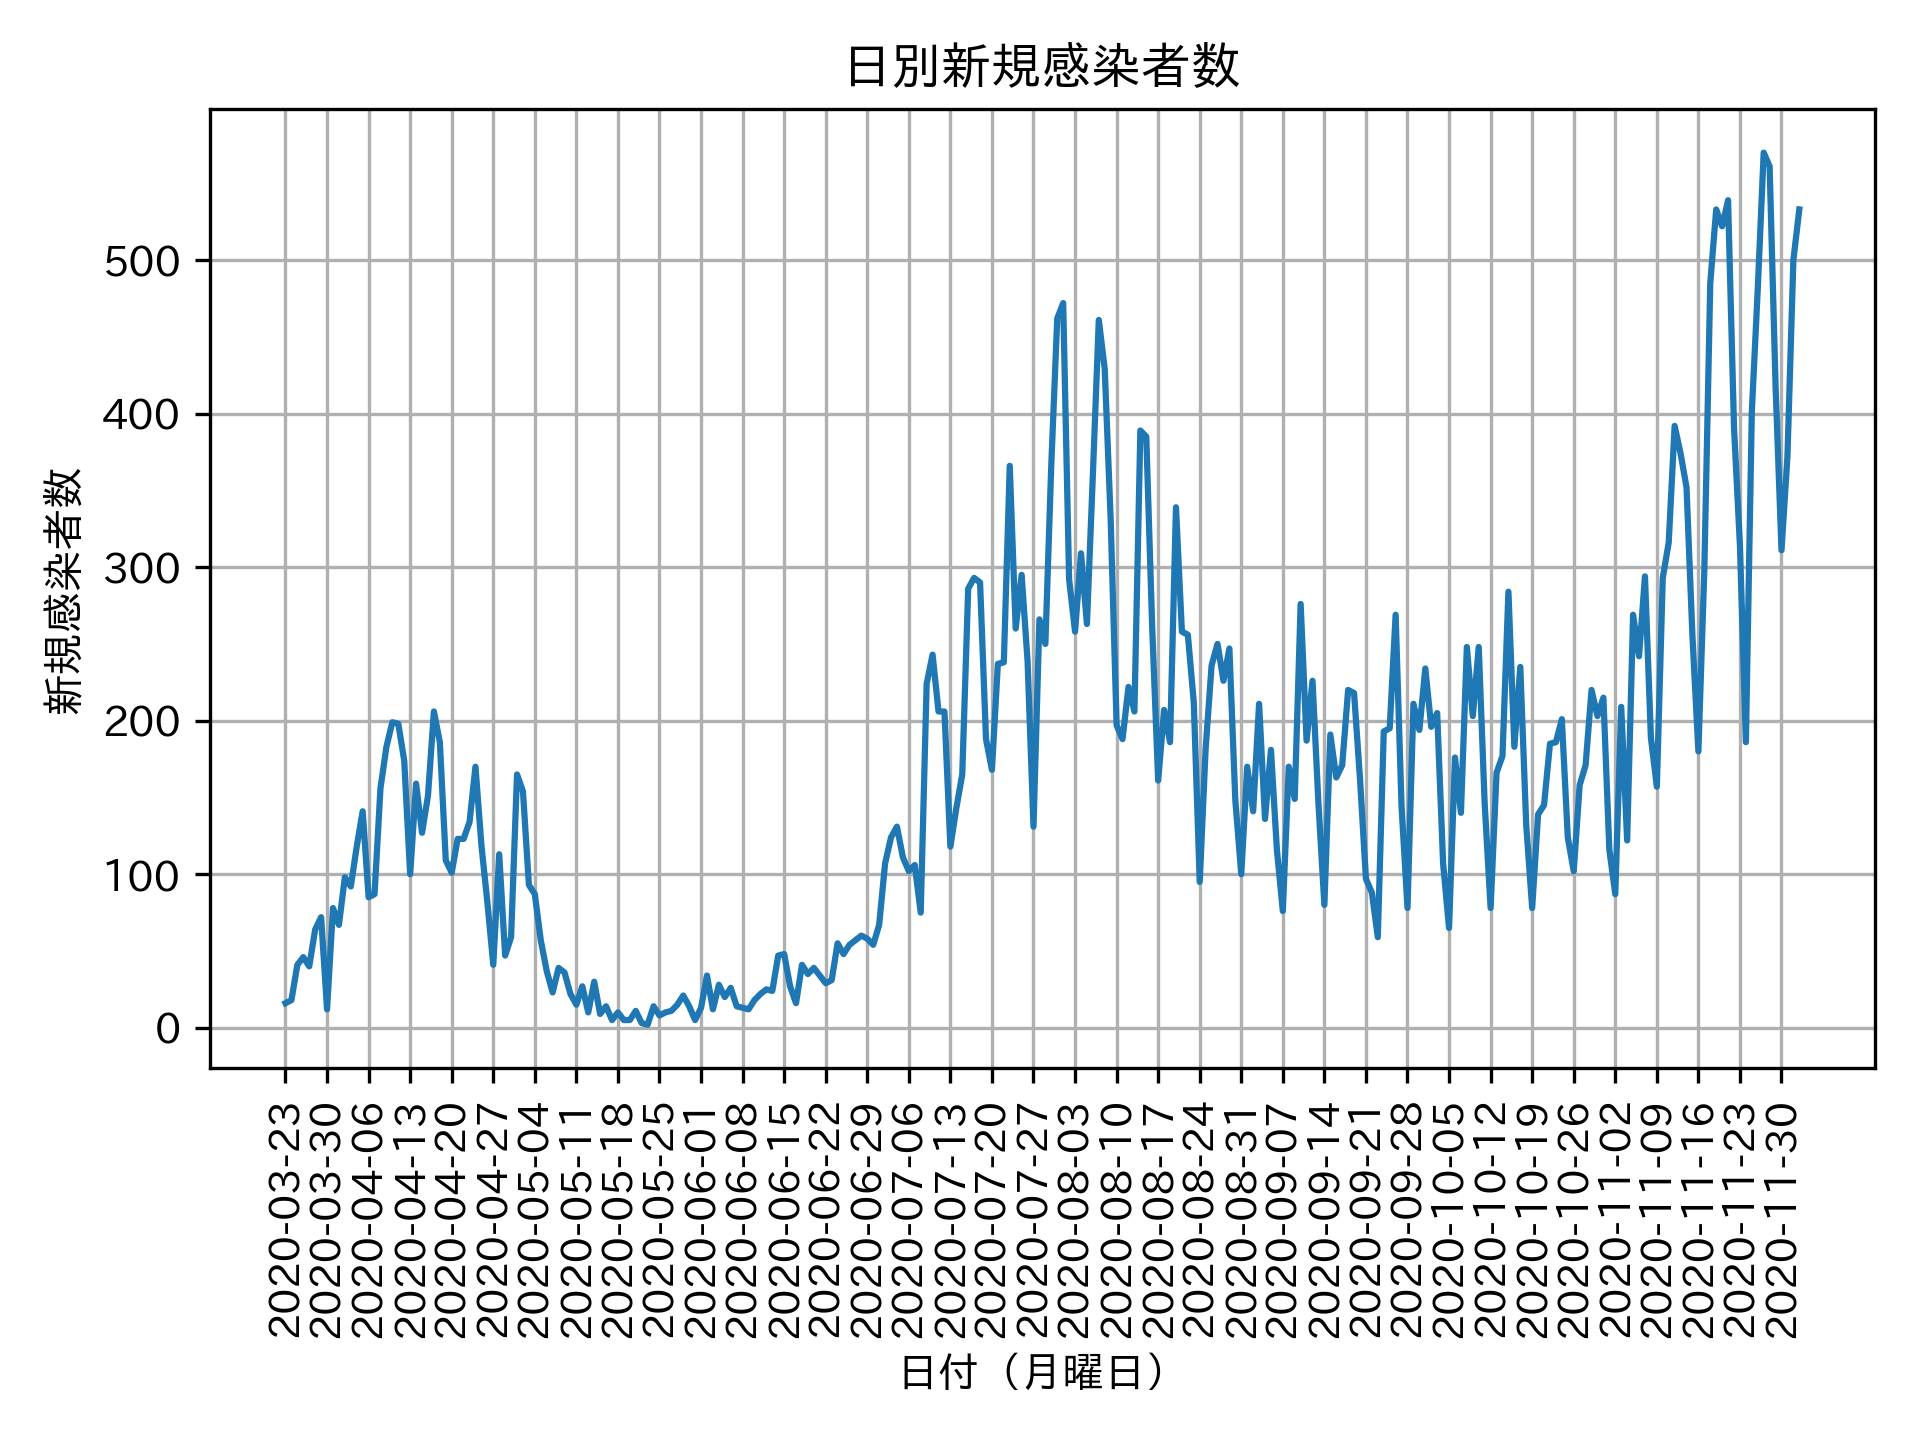
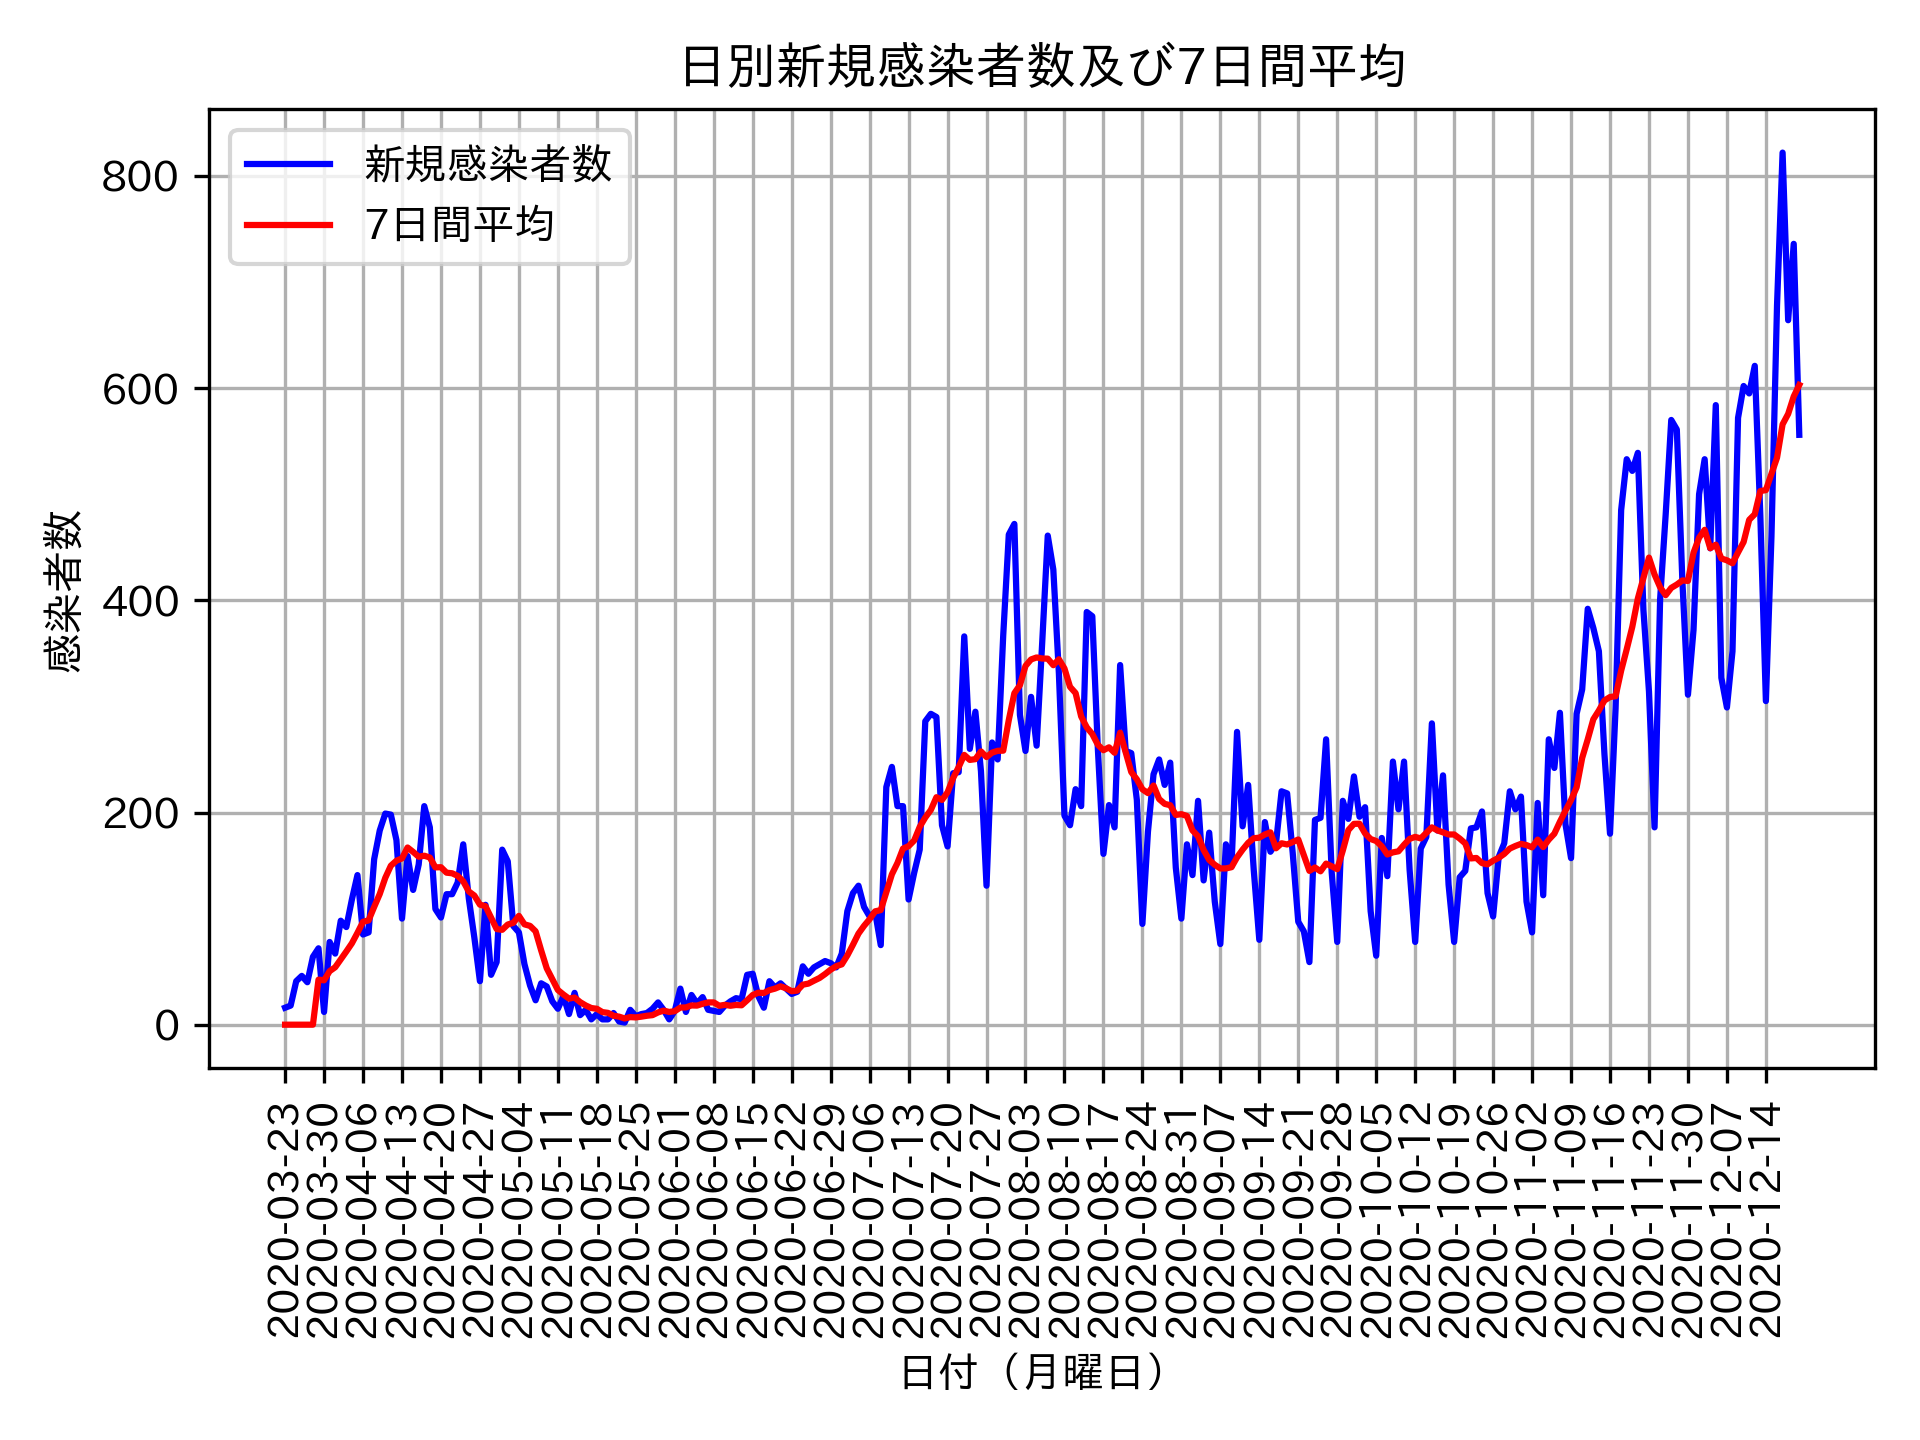
update 201221 add mean of 7days

Changed region(s): [[0.0625, 0.0312, 0.9688, 0.9375], [0.0, 0.3438, 0.125, 0.625], [0.0625, 0.25, 0.125, 0.3125]]

diff --git a/tokyo/daily-week.py b/tokyo/daily-week.py
@@ -54,45 +54,76 @@ if len(y7) < week:
                         y2 = np.append(y2, None)
 
 # 曜日ごとのグラフ描画
-fig1, ax1 = plt.subplots()
+fig, ax = plt.subplots()
 
-ax1.set_xlabel('週始まりの月曜日の日付')  # x軸ラベル
-ax1.set_ylabel('新規感染者数')  # y軸ラベル
-ax1.set_title('曜日別新規感染者数') # グラフタイトル
+ax.set_xlabel('週始まりの月曜日の日付')  # x軸ラベル
+ax.set_ylabel('新規感染者数')  # y軸ラベル
+ax.set_title('曜日別新規感染者数') # グラフタイトル
 # ax.set_aspect('equal') # スケールを揃える
-ax1.grid()            # 罫線
+ax.grid()            # 罫線
 #ax.set_xlim([-10, 10]) # x方向の描画範囲を指定
 #ax.set_ylim([0, 1])    # y方向の描画範囲を指定
-ax1.plot(t1, y1, color=c1, label=l1)
-ax1.plot(t1, y2, color=c2, label=l2)
-ax1.plot(t1, y3, color=c3, label=l3)
-ax1.plot(t1, y4, color=c4, label=l4)
-ax1.plot(t1, y5, color=c5, label=l5)
-ax1.plot(t1, y6, color=c6, label=l6)
-ax1.plot(t1, y7, color=c7, label=l7)
-ax1.legend(loc=0)    # 凡例
+ax.plot(t1, y1, color=c1, label=l1)
+ax.plot(t1, y2, color=c2, label=l2)
+ax.plot(t1, y3, color=c3, label=l3)
+ax.plot(t1, y4, color=c4, label=l4)
+ax.plot(t1, y5, color=c5, label=l5)
+ax.plot(t1, y6, color=c6, label=l6)
+ax.plot(t1, y7, color=c7, label=l7)
+ax.legend(loc=0)    # 凡例
 plt.xticks(rotation=90)     # x軸の文字を90度回転
-fig1.tight_layout()  # レイアウトの設定（保存の直前に入れて調整）
+fig.tight_layout()  # レイアウトの設定（保存の直前に入れて調整）
 plt.savefig('tokyo/week.png', dpi=300) # 画像の保存
 
 ## 日別のグラフ
 # 日別のデータ
 t_daily = data_count.index
 y_daily = data_count.values
+y_mean7 = np.zeros(len(y_daily)) # 7日間平均
+for i in range(6, len(y_daily)):
+    y_mean7[i] = np.mean(y_daily[i-6:i+1])
 
+# ========================
 # 日ごとのグラフ描画
-fig2, ax2 = plt.subplots()
+# ========================
+fig, ax = plt.subplots()
 
-ax2.set_xlabel('日付（月曜日）')  # x軸ラベル
-ax2.set_ylabel('新規感染者数')  # y軸ラベル
-ax2.set_title('日別新規感染者数') # グラフタイトル
+ax.set_xlabel('日付（月曜日）')  # x軸ラベル
+ax.set_ylabel('感染者数')  # y軸ラベル
+ax.set_title('日別新規感染者数及び7日間平均') # グラフタイトル
 # ax.set_aspect('equal') # スケールを揃える
-ax2.grid()            # 罫線
+ax.grid()            # 罫線
 #ax.set_xlim([-10, 10]) # x方向の描画範囲を指定
 #ax.set_ylim([0, 1])    # y方向の描画範囲を指定
-ax2.plot(t_daily, y_daily)
+ax.plot(t_daily[:], y_daily[:], color='blue', label='新規感染者数')
+ax.plot(t_daily[:], y_mean7[:], color='red', label='7日間平均')
 # ax.legend(loc=0)    # 凡例
-ax2.set_xticks(data_count[::7].index)       # 月曜日の日付のみ軸に表示する
+ax.legend()
+ax.set_xticks(data_count[::7].index)       # 月曜日の日付のみ軸に表示する
 plt.xticks(rotation=90)     # x軸の文字を90度回転
-fig2.tight_layout()  # レイアウトの設定（保存の直前に入れて調整）
+fig.tight_layout()  # レイアウトの設定（保存の直前に入れて調整）
 plt.savefig('tokyo/daily.png', dpi=300) # 画像の保存
+
+
+# ========================
+# 日ごとのグラフ描画（log）
+# ========================
+fig, ax = plt.subplots()
+
+ax.set_xlabel('日付（月曜日）')  # x軸ラベル
+ax.set_ylabel('感染者数')  # y軸ラベル
+ax.set_title('日別新規感染者数及び7日間平均') # グラフタイトル
+# ax.set_aspect('equal') # スケールを揃える
+ax.grid()            # 罫線
+#ax.set_xlim([-10, 10]) # x方向の描画範囲を指定
+#ax.set_ylim([0, 1])    # y方向の描画範囲を指定
+ax.plot(t_daily[:], y_daily[:], color='blue', label='新規感染者数')
+ax.plot(t_daily[:], y_mean7[:], color='red', label='7日間平均')
+plt.yscale("log")
+# ax.legend(loc=0)    # 凡例
+ax.legend()
+ax.set_xticks(data_count[::7].index)       # 月曜日の日付のみ軸に表示する
+plt.xticks(rotation=90)     # x軸の文字を90度回転
+fig.tight_layout()  # レイアウトの設定（保存の直前に入れて調整）
+plt.savefig('tokyo/daily_log.png', dpi=300) # 画像の保存
+
